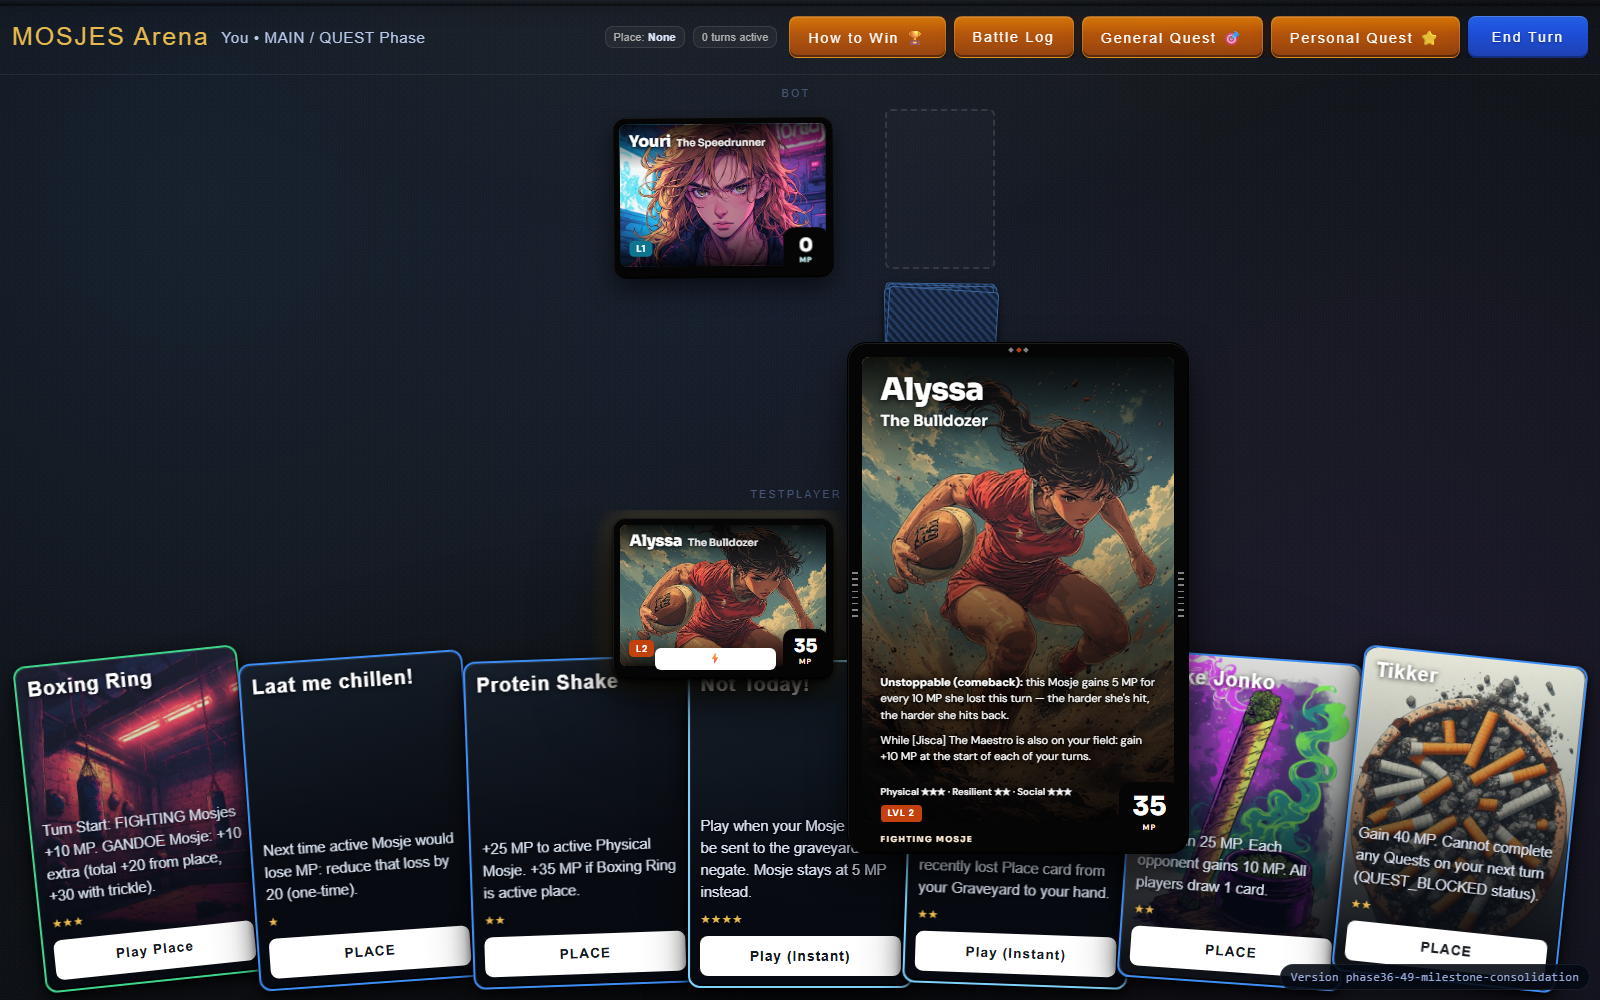
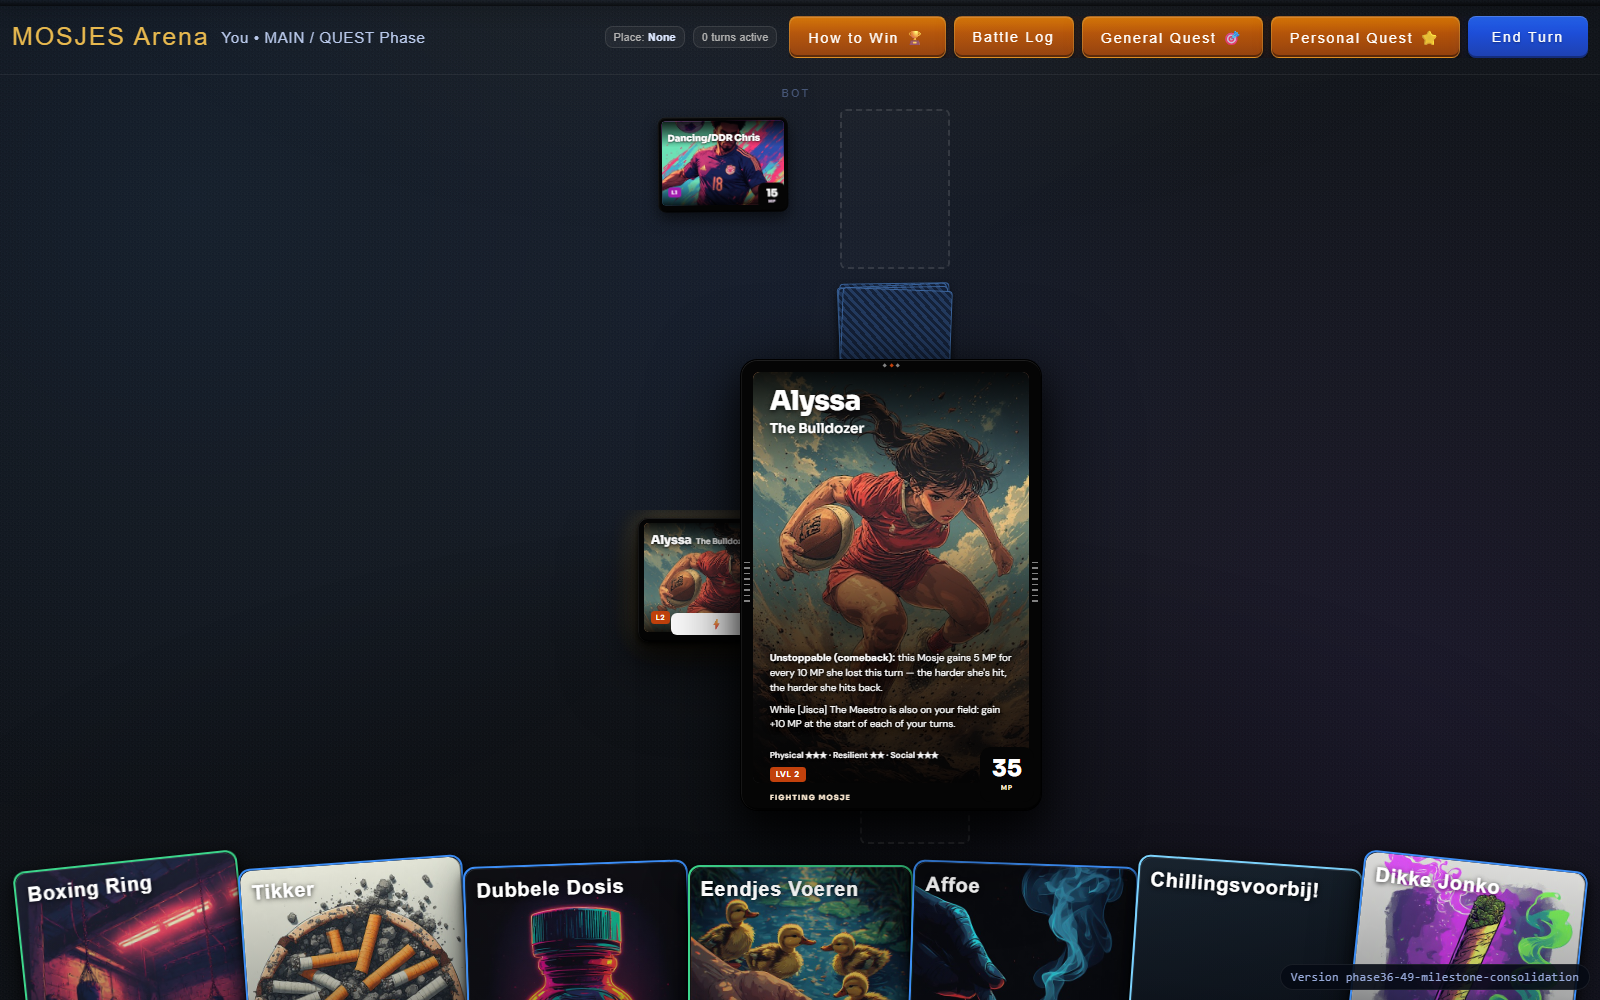
ui: use the Arena hover popup for card frame v1, drop duplicate popup
hoverZoom reads live MP/level from the v1 tile; arena.css sizes the v1 face in popup and spotlight.

Changed region(s): [[0.0, 0.093, 1.0, 1.0]]

diff --git a/tests/ui/cards/cardv1-mosje.spec.js b/tests/ui/cards/cardv1-mosje.spec.js
@@ -164,7 +164,7 @@ test.describe('card frame v1 — Mosje', () => {
     await page.screenshot({ path: `${OUT}/mosje-live-preview.png` });
   });
 
-  test('hover on a field Mosje shows the enlarged full card beside it; click still opens the modal', async ({ page }) => {
+  test('hover on a field Mosje shows the enlarged full card (arena hover popup); click still opens the modal', async ({ page }) => {
     await page.setViewportSize({ width: 1600, height: 1000 });
     await page.waitForSelector('.mosje-card--owned', { timeout: 15000 });
     await page.evaluate(() => {
@@ -174,7 +174,7 @@ test.describe('card frame v1 — Mosje', () => {
     await page.waitForTimeout(4000);
     const tile = page.locator('.mosje-card--owned.card-v1--field').first();
     await tile.hover();
-    const big = page.locator('.cv1-hover-panel');
+    const big = page.locator('.hover-zoom');
     await expect(big).toBeVisible();
     await expect(big.locator('.cv1-first')).toHaveText('Alyssa');
     await expect(big.locator('[data-cv1-mp]')).toHaveText('35'); // live state, not Start MP
@@ -182,13 +182,12 @@ test.describe('card frame v1 — Mosje', () => {
     const t = await tile.boundingBox();
     const b = await big.boundingBox();
     expect(b.height).toBeGreaterThan(t.height * 2);
-    expect(b.x >= t.x + t.width || b.x + b.width <= t.x).toBe(true); // beside, not over, the tile
     await page.waitForTimeout(800);
     await page.screenshot({ path: `${OUT}/mosje-hover.png` });
     await page.mouse.move(5, 500);
     await expect(big).toHaveCount(0);
     await tile.click();
     await expect(page.locator('.modal-card.card-detail').first()).toBeVisible();
-    await expect(page.locator('.cv1-hover-panel')).toHaveCount(0);
+    await expect(page.locator('.hover-zoom')).toHaveCount(0);
   });
 });

diff --git a/styles/arena.css b/styles/arena.css
@@ -125,3 +125,10 @@
 @keyframes spot-flash-loss   { 0%, 100% { box-shadow: 0 0 0 0 transparent; } 25% { box-shadow: 0 0 60px 18px rgba(255, 70, 70, 0.85); transform: translateX(-6px); } 50% { transform: translateX(6px); } }
 @keyframes spot-flash-gain   { 0%, 100% { box-shadow: 0 0 0 0 transparent; } 30% { box-shadow: 0 0 60px 18px rgba(80, 255, 150, 0.8); } }
 @keyframes spot-flash-shield { 0%, 100% { box-shadow: 0 0 0 0 transparent; } 30% { box-shadow: 0 0 60px 18px rgba(100, 180, 255, 0.85), inset 0 0 40px rgba(100, 180, 255, 0.5); } }
+
+/* ── Card frame v1 inside the popup + spotlight ────────────────────────
+   The v1 face scales from --cv1-w (2:3), so size the wrapper to match. */
+.hover-zoom:has(.card-v1) { height: calc(300px * 1.5); }
+.hover-zoom .card.card-v1 { --cv1-w: 300px; }
+.card-spotlight:has(.card-v1) { height: calc(320px * 1.5); margin-top: calc(320px * 1.5 / -2); }
+.card-spotlight .card.card-v1 { --cv1-w: 320px; }

diff --git a/src/ui/modalManager.js b/src/ui/modalManager.js
@@ -431,7 +431,7 @@ export function initModalManager(container) {
 	// ── Unified card preview — always two-col, card left at 240 px, info right ──
 	function showCardPreview(card) {
 		if (!card) return;
-		const previewEl = renderCard(card, { compact: true, noHover: true });
+		const previewEl = renderCard(card, { compact: true });
 		const type = String(card.type || card.cardType || '').toUpperCase();
 
 		const esc = escapeHtml;
@@ -536,7 +536,7 @@ export function initModalManager(container) {
 
 	function showQuestAttemptPreview(mosje, questDef, threshold, onConfirm, { diceBonus = 0 } = {}) {
 		if (!mosje || !questDef) return;
-		const previewEl = renderCard(mosje, { compact: true, noHover: true });
+		const previewEl = renderCard(mosje, { compact: true });
 		previewEl.classList.add('modal-mosje-preview-card');
 		const traitRows = Object.entries(mosje.traits || {})
 			.filter(([, value]) => Number(value) > 0)

diff --git a/src/ui/cardRenderer.js b/src/ui/cardRenderer.js
@@ -9,7 +9,6 @@
 
 import { getCardById } from '../data/cardIndex.js';
 import { buildCardV1 } from './cardV1/buildCardV1.js';
-import { attachHoverPanel } from './cardV1/attachHoverPanel.js';
 import { isCardV1Enabled } from './cardV1/isCardV1Enabled.js';
 import { parseMosjeName } from './cardV1/parseMosjeName.js';
 
@@ -68,7 +67,6 @@ export function renderCard(card, options = {}) {
   if (v1) {
     element.classList.add(...v1.className.split(' '));
     element.innerHTML = v1.html;
-    if (!options.noHover) attachHoverPanel(element, resolvedCard);
     return element;
   }
   element.innerHTML = buildUnifiedCardHTML(resolvedCard, options);

diff --git a/src/ui/hoverZoom.js b/src/ui/hoverZoom.js
@@ -26,6 +26,13 @@ function buildPopupCard(srcEl) {
 		const lvl = mpEl.querySelector('.uc-mp-lvl')?.textContent.match(/\d+/);
 		if (lvl) merged.level = Number(lvl[0]) - 1;
 	}
+	// Card frame v1 field tile: live MP + level come from its badge and L<n> pill.
+	const v1Mp = srcEl.querySelector('[data-cv1-mp]');
+	if (v1Mp) {
+		merged.mp = Number(v1Mp.textContent);
+		const lvl = srcEl.querySelector('.cv1-pill')?.textContent.match(/\d+/);
+		if (lvl) merged.level = Number(lvl[0]) - 1;
+	}
 	return renderCard(merged, { compact: false });
 }
 

diff --git a/styles/card-v1.css b/styles/card-v1.css
@@ -189,9 +189,3 @@
   width: auto; height: 22px; min-height: 22px; padding: 0 6px; margin: 0;
   font-size: 11px; border-radius: 6px; z-index: 5;
 }
-
-/* ── Hover: enlarged card beside the hovered one ───────────── */
-.card.card-v1.cv1-hover-panel {
-  position: fixed; z-index: 100000; pointer-events: none; margin: 0;
-  transform: none; cursor: default;
-}

diff --git a/design/card-frame-v1/VERIFICATION.md b/design/card-frame-v1/VERIFICATION.md
@@ -22,7 +22,7 @@ field 240x176, hand size 130px wide, board size 150px wide.
 | 5 | Name block: no nickname / long first name / long nickname | PASS — FPS Coert, Dancing/DDR Chris (shrinks to 32.9px, one line), Gandoe "The Unpredictable Wizard" (longest nickname, one line). Field tile ellipsises long nicknames. |
 | 6 | Type colour on pill, border text, badge label, middle diamond | PASS (Fighting orange, Digital teal, Artistic magenta; visual) |
 | 7 | No blur, divider, brackets, wordmark, serif, flavour or rarity on the face | PASS (unit test asserts no flavour/"rarity"; fonts are Sora/DM Sans) |
-| 8 | Hover | PASS for Mosje — per Gandalf: hover shows the full card enlarged beside the hovered one (Arena style), live MP, click still opens the existing detail modal. The text-only "Hover / long-press" panel (flavour + rarity) was NOT built; flavour and rarity are not shown on hover. See verification/mosje-hover.png. |
+| 8 | Hover | PASS for Mosje — hover shows the enlarged full card (the Arena popup from ui/arena-hover-spotlight, merged in), live MP, click still opens the detail modal. No flavour/rarity on hover (Gandalf: enlarged card, not a text panel). See verification/mosje-hover.png. |
 | 9 | Field mode: ellipsis, pill, badge | PASS (Place without badge: n/a, later) |
 | 10 | Missing-art fallback | PASS — FPS Coert, Parkour West, The Hacker have no art in the data and show the type-coloured fallback with readable text. Broken image is removed by `onerror`. |
 | 11 | Live values: MP and level follow game state | PASS — field tile showed 35 / L2, then 105 after `setMosjeMP`; hand/preview cards show Start MP and LVL 1 (see open question 2). |
